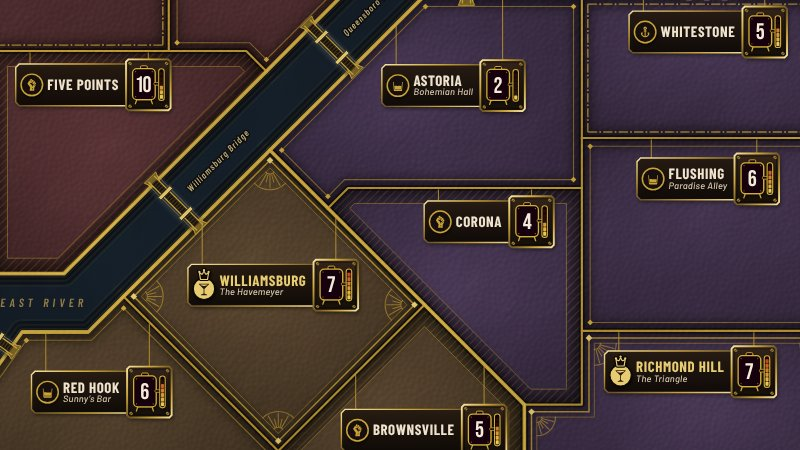
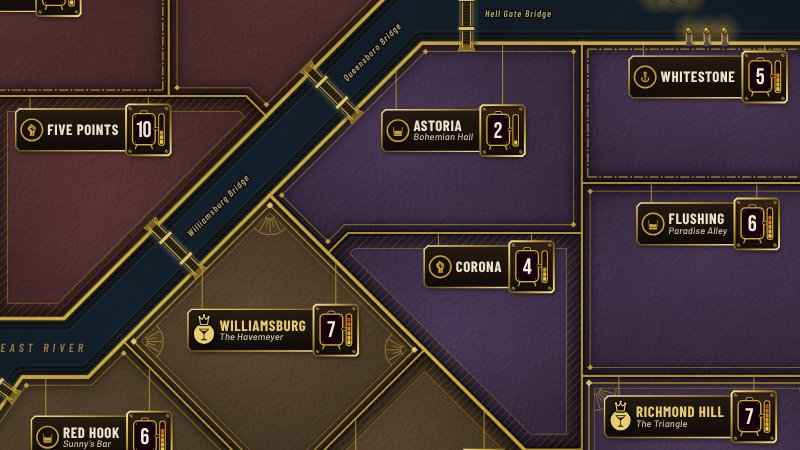
Index: re-frame the City Map tile on both bridges
The Queensboro Bridge had moved south past the tile's top edge, cutting
the bridge and its name. TILE_CROP moves 38 units up (y 372 to 334), so
the Queensboro and Williamsburg Bridges sit whole with their names, with
the Hell Gate along the top and both crown rooms, Williamsburg and
Richmond Hill, uncut.

Claude-Session: https://claude.ai/code/session_01XQ8L2pEarj5BXdX7Fm6txp

diff --git a/tools/build_board.js b/tools/build_board.js
@@ -53,7 +53,7 @@ const OUT = {
 };
 // The index tile: 800 x 450 like its neighbours, cropped on the Queensboro and Williamsburg
 // Bridges and two crown rooms. [x, y, width] in board units; the height follows at 16:9.
-const TILE_CROP = [366, 372, 672]; // 672 x 378 scales to exactly 800 x 450
+const TILE_CROP = [366, 334, 672]; // 672 x 378 scales to exactly 800 x 450 (y 372 until 2026-10-07: the Queensboro had moved south)
 const geo = JSON.parse(fs.readFileSync(path.join(DIR, 'board-geometry.json'), 'utf8'));
 const BOARD_IN = 24, BOARD_MM = BOARD_IN * 25.4, MM = 1080 / BOARD_MM; // 24in square
 const DPI = +arg('dpi') || 300; // print render: 300dpi unless --dpi=N

diff --git a/board-handoff.md b/board-handoff.md
@@ -537,8 +537,9 @@ smallest (39), is 46 since the Sound went level.
   excepts it by name. A plain build doesn't rewrite it, so rerun `--print` after any board
   change or it goes stale.
 - `Art/Index/board.jpg`: the index page's tile ("The City Map", first under Components), an
-  800 x 450 crop of the screen board (`TILE_CROP`: the Queensboro and Williamsburg Bridges and
-  two crown rooms), rebuilt with the board. It is the board's one tile and opens
+  800 x 450 crop of the screen board (`TILE_CROP`: the Queensboro and Williamsburg Bridges with
+  their names, and two crown rooms, Williamsburg and Richmond Hill; re-framed 38 units up on
+  2026-10-07, when the Queensboro moved south and was cut by the top edge), rebuilt with the board. It is the board's one tile and opens
   **`City Map v0.9.html`** (Nick, 2026-10-07: one link, with the finishes inside): the board's
   viewer, a Screen / Print toggle over the two 2160px previews (`#screen` and `#print` in the
   URL, so either can be linked), click to see the map at full size, and in Print the PDF to
